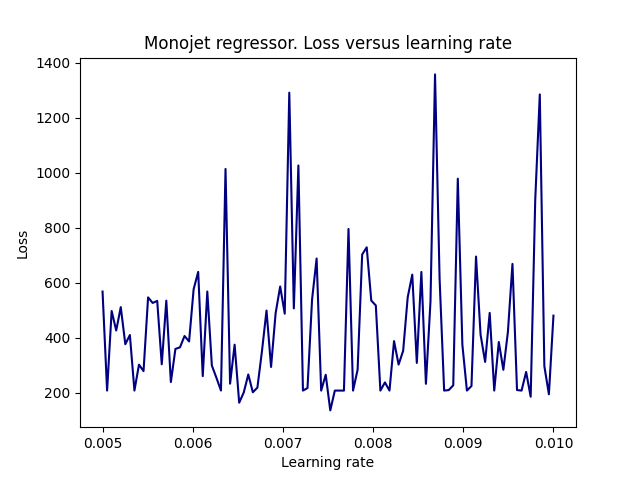
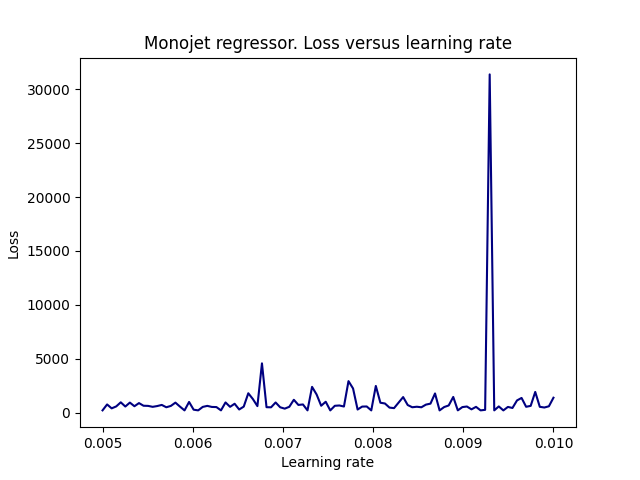
done with monoz optimizing

diff --git a/src/ML_1D/ml_models/regression_CNN.py b/src/ML_1D/ml_models/regression_CNN.py
@@ -98,7 +98,7 @@ class regression_CNN():
         if self.signature == "z":
             conv1 = layers.Conv1D(32, (3), activation= "relu", input_shape = self.input_shape)(image_input)
             maxpool1 = layers.MaxPooling1D((2))(conv1)
-            conv2 = layers.Conv1D(16, (3), activation = "relu")(maxpool1)
+            conv2 = layers.Conv1D(12, (3), activation = "relu")(maxpool1)
             maxpool2 = layers.MaxPooling1D((2))(conv2)
             conv3 = layers.Conv1D(8, (3), activation = "relu")(maxpool2)
             norm1 = layers.BatchNormalization()(conv3)
@@ -106,8 +106,8 @@ class regression_CNN():
             flatten = layers.Flatten()(maxpool3)
             concatenated = layers.concatenate([flatten, categorical_input])
             dense1 = layers.Dense(16, activation = "relu")(concatenated)
-            dense2 = layers.Dense(8, activation = "relu")(dense1)
-            norm2 = layers.BatchNormalization()(dense2)
+            #dense2 = layers.Dense(8, activation = "relu")(dense1)
+            norm2 = layers.BatchNormalization()(dense1)
             output = layers.Dense(1, activation = "linear")(norm2)
 
             model = models.Model(inputs=[image_input, categorical_input], outputs=output)
@@ -220,8 +220,8 @@ class regression_CNN():
         except FileNotFoundError as e:
             print(f"Could not save image of model architecture. Error: {e}")
         
-        learning_rate = self.grid_search_lr()
-        #learning_rate = 0.00302
+        #learning_rate = self.grid_search_lr()
+        learning_rate = 0.0065
         self.model.compile(optimizer = tf.keras.optimizers.Adam(learning_rate=learning_rate), loss = "mse", metrics = [tf.keras.metrics.RootMeanSquaredError(), \
                 tf.keras.metrics.MeanAbsoluteError(), tf.keras.metrics.MeanAbsolutePercentageError(), \
                 tf.keras.metrics.MeanSquaredLogarithmicError(), tf.keras.metrics.CosineSimilarity(), \
